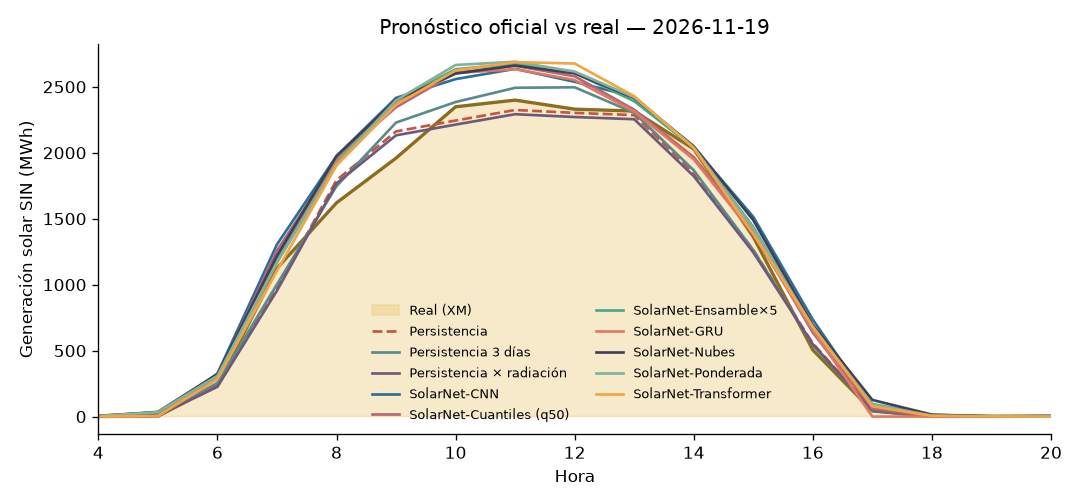
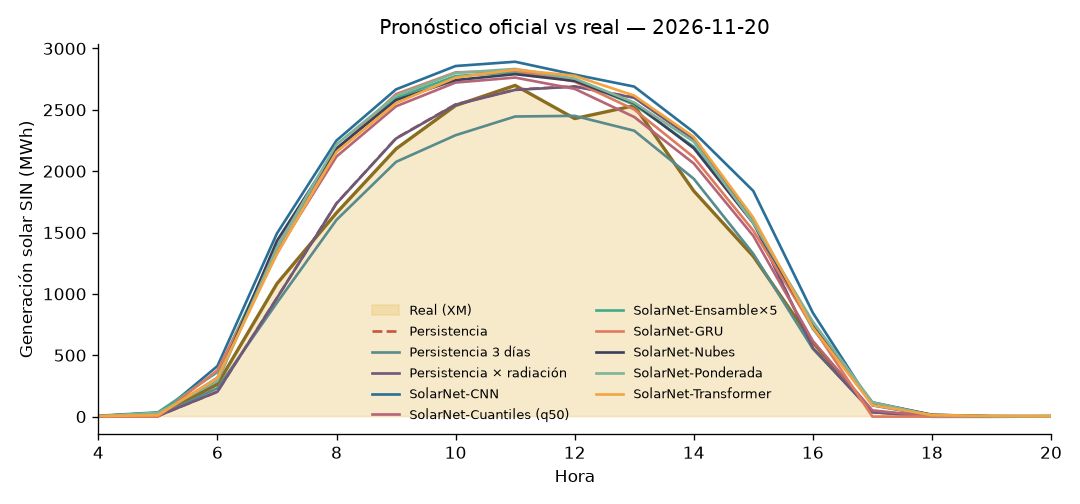
☀ Pronóstico y leaderboard 2026-11-23

diff --git a/LEADERBOARD.md b/LEADERBOARD.md
@@ -1,21 +1,21 @@
 # ☀ Liga de Pronóstico Solar Colombia — Leaderboard
 
-_Actualizado: 2026-11-22 13:54 (hora Colombia) · Métrica: MAE en horas de sol (06–18 h) · Skill = 1 − MAE/MAE_persistencia (positivo = le ganas a la persistencia)_
+_Actualizado: 2026-11-23 18:09 (hora Colombia) · Métrica: MAE en horas de sol (06–18 h) · Skill = 1 − MAE/MAE_persistencia (positivo = le ganas a la persistencia)_
 
 ## 🏆 Liga oficial (predicciones hechas ANTES de conocer el dato real)
 
 | # | Modelo | Autor | Días | MAE (MWh) | nMAE | Skill vs persistencia |
 |---|---|---|---|---|---|---|
-| 🥇 | SolarNet-Cuantiles (q50) | profe (reto 6) | 43 | 222.0 | 14.8% | +25.7% |
-| 🥈 | SolarNet-Nubes | profe (reto 2) | 43 | 228.4 | 15.3% | +21.4% |
-| 🥉 | SolarNet-CNN | profe (reto 4) | 43 | 229.8 | 15.4% | +18.0% |
-| 4 | SolarNet-GRU | profe | 43 | 233.2 | 15.6% | +21.1% |
-| 5 | SolarNet-Ensamble×5 | profe (reto 5) | 43 | 233.7 | 15.6% | +22.1% |
-| 6 | SolarNet-Ponderada | profe (reto 3) | 43 | 236.7 | 15.8% | +22.0% |
-| 7 | SolarNet-Transformer | profe (reto 4) | 43 | 242.7 | 16.2% | +18.1% |
-| 8 | Persistencia × radiación | profe | 43 | 259.0 | 17.3% | +23.9% |
-| 9 | Persistencia 3 días | profe (reto 1) | 43 | 328.1 | 21.9% | +4.9% |
-| 10 | Persistencia | profe | 43 | 393.1 | 26.3% | — |
+| 🥇 | SolarNet-Cuantiles (q50) | profe (reto 6) | 44 | 220.7 | 14.7% | +24.1% |
+| 🥈 | SolarNet-Nubes | profe (reto 2) | 44 | 228.0 | 15.2% | +18.9% |
+| 🥉 | SolarNet-CNN | profe (reto 4) | 44 | 231.6 | 15.5% | +13.7% |
+| 4 | SolarNet-GRU | profe | 44 | 232.6 | 15.5% | +18.7% |
+| 5 | SolarNet-Ensamble×5 | profe (reto 5) | 44 | 233.4 | 15.6% | +19.5% |
+| 6 | SolarNet-Ponderada | profe (reto 3) | 44 | 236.5 | 15.8% | +19.1% |
+| 7 | SolarNet-Transformer | profe (reto 4) | 44 | 242.2 | 16.2% | +15.4% |
+| 8 | Persistencia × radiación | profe | 44 | 255.6 | 17.1% | +23.4% |
+| 9 | Persistencia 3 días | profe (reto 1) | 44 | 322.9 | 21.6% | +5.2% |
+| 10 | Persistencia | profe | 44 | 386.7 | 25.8% | — |
 
 ![último día](resultados/ultimo_dia.png)
 
